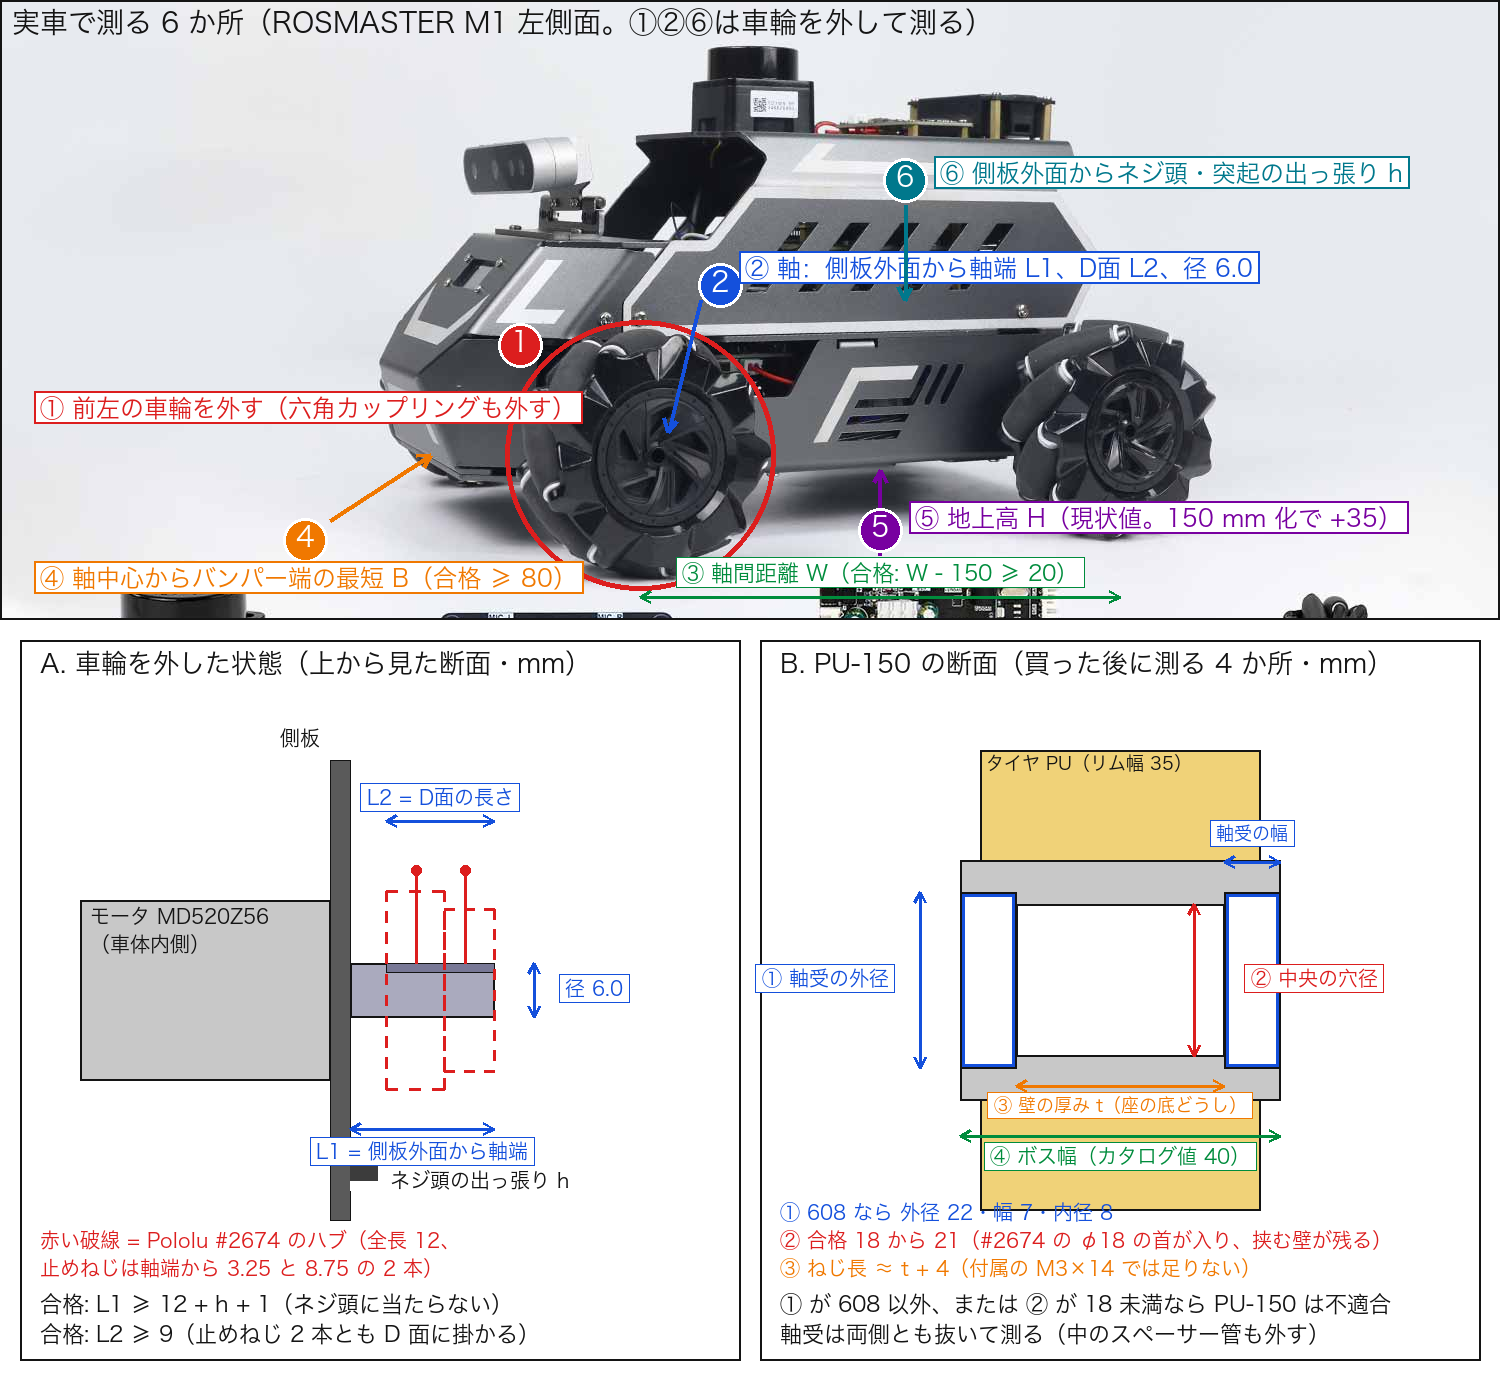
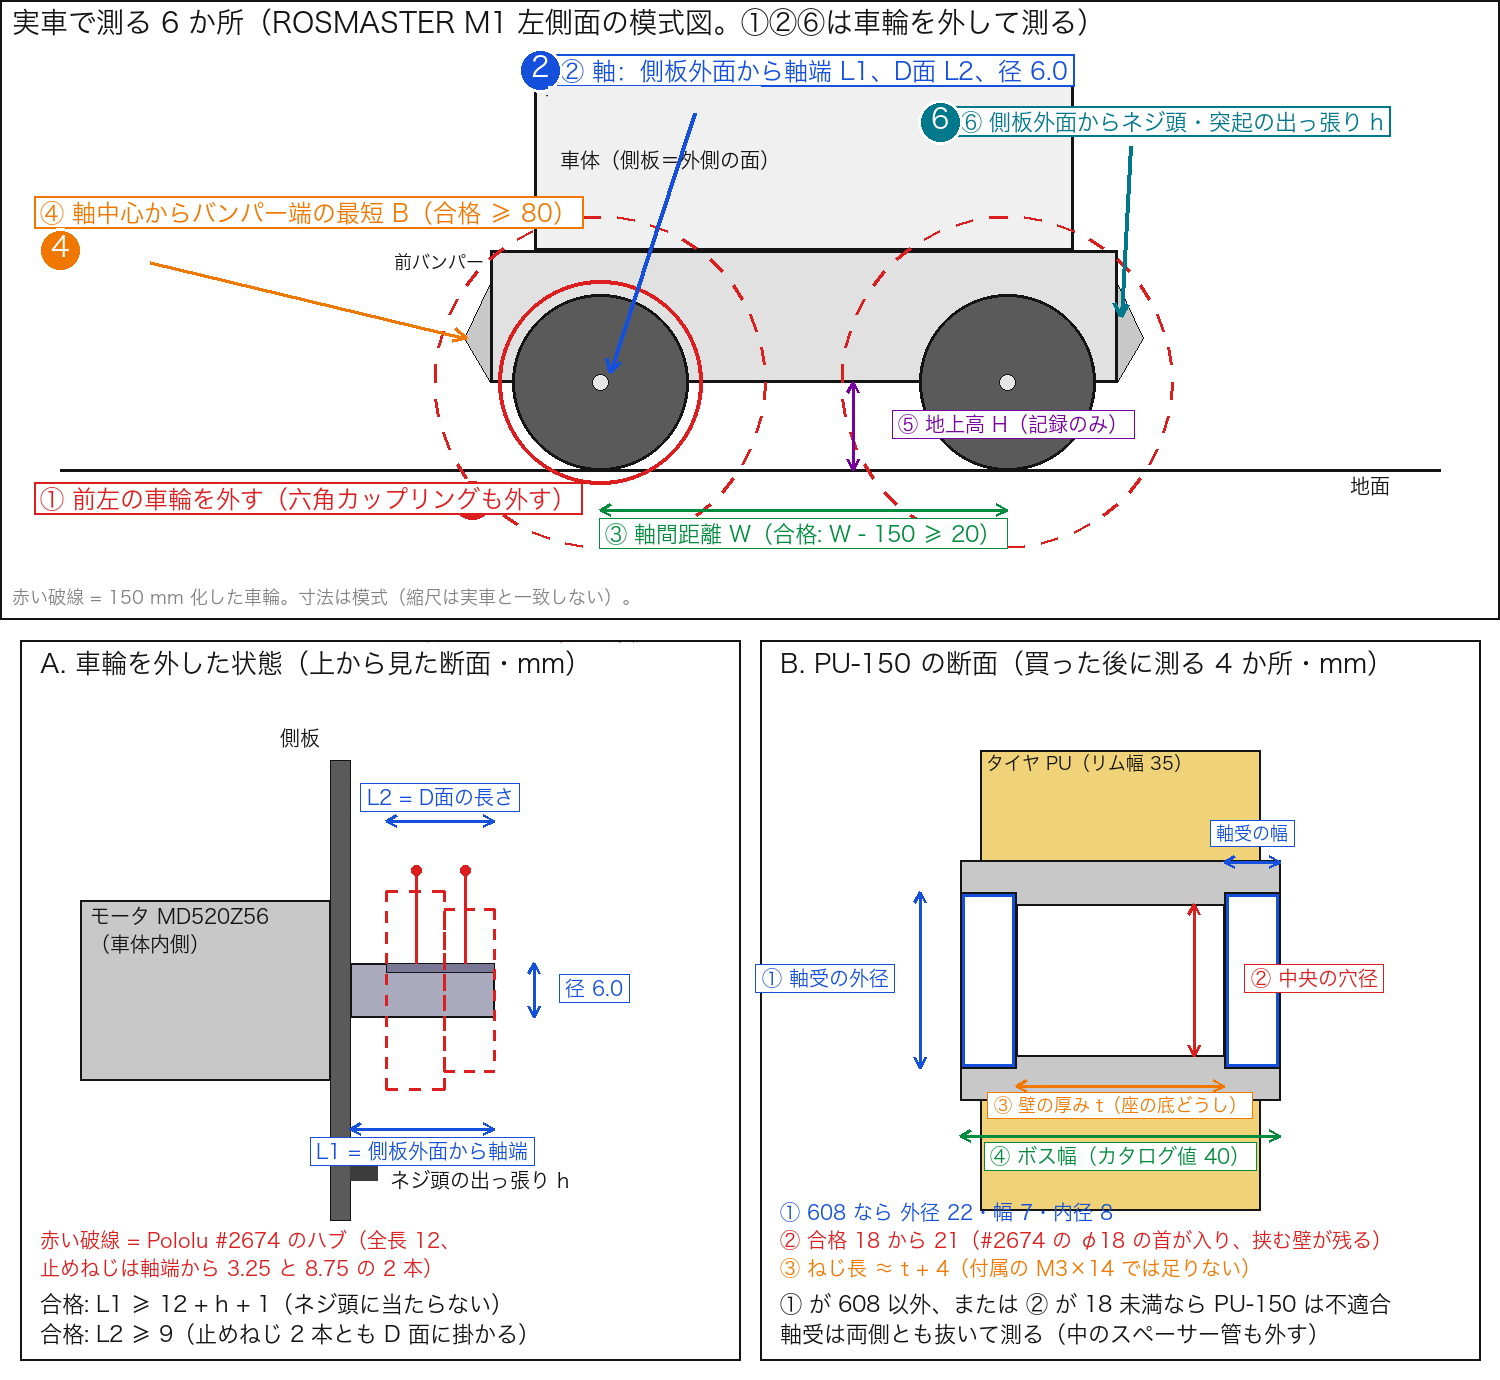
[docs] mode-outdoor: reconcile parallel-session sections in 06 (renumber my ④-7/④-8 → ④-9/④-10, retract #1077 and USPS-First-Class notes), replace vendor photo in the measurement guide with an original schematic (public repo)

Changed region(s): [[0.0, 0.0, 0.9507, 0.4674], [0.8893, 0.3428, 0.92, 0.4051], [0.8587, 0.4362, 0.92, 0.4674]]

diff --git a/docs/mode-outdoor/README.md b/docs/mode-outdoor/README.md
@@ -69,4 +69,4 @@
 - **2026-09-13**: 車輪径 150 mm をユーザー裁定（FW clamp を構造根拠に含める＝案 A'、退避先 144 mm）。[07 追補③](07-drivetrain-and-wheel-sizing.md)＝裁定・実装スライス 1（`m1_driver` wheel_scale / odom・branch `feat/m1-wheel-scale-odom`・PR pending・R-26 61 本・mutation 11/11）・G-W9 追加・`OQ-OD76/77`。[06 末尾追補](06-hardware-delta-and-base-selection.md)＝購入リスト（最小構成 ≈ ¥30,800・経路 A/B）。[mode-m1/02](../mode-m1/02-m1-driver-and-watchdog.md) 末尾追補②＝param 一覧。 **同日再調査で訂正**: 真の 150 mm 品は国内在庫あり（シシク PU-150 = 本命・[06 末尾 経路 A'](06-hardware-delta-and-base-selection.md)）。
 - **2026-09-14**: [06 末尾追補②](06-hardware-delta-and-base-selection.md)＝非常停止装置の実装案。原文再 Read（届出資料②「原則 2 か所」/ 型式認定基準 4.1 ウ(イ)「上部中央 1 か所」）→ **φ16 取付・ボタン径 φ29 の小型スイッチ（IDEC XA1E-BV311R）＋黄銘板 HAAV-27 を GNSS マスト上端に上向き 1 個**で法定要件（φ20 mm 以上・地上 60 cm 以上・赤/黄・自己保持）を満たす案。**メインスイッチは遮断点として同一（昇圧タップが上流）だが操作部として失格**（押しボタンでない・地上高・色・識別・自己保持）→ リレー a 接点をメインスイッチと直列に置く。`OQ-OD65〜67`。
 - **2026-09-14（②）**: 外部レビュー v3 を 4 レーン（Nav2 humble 上流／外部製品・法規／自 docs／自 code）で照合し [09](09-external-review-v3-response.md) を新設。**自 docs の誤り訂正**: 08（per-source timeout → Humble は node-level のみ・fail-open／gate は選択機能のみ／帯 0 撤回／近傍解像度 0.05 に統一／MRC・遷移の語／00_Platform_Contract 行）・[doc23:804](../architecture/23-perception-and-localization.md:804)（cuVSLAM blocker は Humble pin ではない＝Isaac ROS 3.2 は Humble 公式）・[doc12 末尾追補](../architecture/12-infrastructure-common.md)（Humble CM の fail-open）・02 §3（制御 / 映像 2 接続）・03 / 04 / 05 末尾追補・04 / flow / tree の 144 mm → 150 mm・**tree / flow HTML を v2.1 構造へ更新**（前提箱 00・手動用 CM・期限付き走行許可・運転 7 状態・横断 5 状態・制御 / 映像 / 記録 3 接続・X2 sensor_health・v2→v2.1 差分表・レビュー v3 照合表）。**触っていない（別セッション担当）**: [06:18](06-hardware-delta-and-base-selection.md:18) の「法定」ラベル（φ20 / 60 cm / 配置は警察庁通達別添の型式認定基準・リレーは実装案＝01 §3 の区別へ揃える要）・[07:21](07-drivetrain-and-wheel-sizing.md:21) §0 の「144 mm 級」推奨（Status 行の 150 mm 裁定と自己矛盾）→ 06 / 07 の担当セッションへ申し送り（[09 §6](09-external-review-v3-response.md)）。code 側の追跡: `collision_monitor.yaml:58/:90` のコメントは Jazzy 意味論（`OQ-OD96`・`track:safety-state`）。
-- **2026-09-14（後半）**: 車輪換装の実測と裁定。実車で軸径 ≈ 6・軸露出 ≈ 19・D 面 15 → Pololu #2674 が付くことを確定。**`OQ-OD76` = 案 2（150 mm 優先: シシク PU-150 ＋ #2674）で裁定**、確定購入リスト（Pololu は #2674 ×5 のみ・国内 MonotaRO 5 点・注文 2 は PU-150 の 4 点確認後）＝ [06 ④-8](06-hardware-delta-and-base-selection.md)。測定図 = [m1-wheel-swap-measure-guide.png](m1-wheel-swap-measure-guide.png)。Pololu 依存の最小化と DigiKey 固定送料 ¥4,428 の確認 = [06 ④-2〜④-5](06-hardware-delta-and-base-selection.md)。
+- **2026-09-14（後半）**: 車輪換装の実測と裁定。実車で軸径 ≈ 6・軸露出 ≈ 19・D 面 15 → Pololu #2674 が付くことを確定。**`OQ-OD76` = 案 2（150 mm 優先: シシク PU-150 ＋ #2674）で裁定**、確定購入リスト（Pololu は #2674 ×5 のみ・国内 MonotaRO 5 点・注文 2 は PU-150 の 4 点確認後）＝ [06 ④-10](06-hardware-delta-and-base-selection.md)。測定図 = [m1-wheel-swap-measure-guide.png](m1-wheel-swap-measure-guide.png)。Pololu 依存の最小化と DigiKey 固定送料 ¥4,428 の確認 = [06 ④-2〜④-5](06-hardware-delta-and-base-selection.md)。

diff --git a/docs/mode-outdoor/07-drivetrain-and-wheel-sizing.md b/docs/mode-outdoor/07-drivetrain-and-wheel-sizing.md
@@ -274,4 +274,4 @@ docs 内（file:line は執筆時に実 Read）:
 - `OQ-OD76` 車輪実体 (A') 国内 150 mm・608/8 mm 軸受品 ＋ #2674（推奨）/ (A) Pololu 144×29 / (B) 12 mm 穴台車車輪 ＋ スタブ軸 の選択。A' の残確認 = ハブ幅 40 mm に対する M3 長ねじ（#2674 付属は 14 mm）と、#2674 が 608 を置き換える構造ゆえ片持ちが残る点（外部軸受の要否は G-W1 の軸露出長で決める）。
 - `OQ-OD77` 事前相談で「FW clamp = 構造」が否認された場合の手順（k / 径 param の切替と届出値の再実測）。
 
-【2026-09-14 追記】`OQ-OD76` **裁定 = A'（シシク PU-150 ＋ Pololu #2674）**。実測（軸径 ≈ 6・側板外面→軸端 ≈ 19・D 面 15）で #2674 の取付は確定（[06 ④-7](06-hardware-delta-and-base-selection.md)）。車輪側の 4 点確認と確定購入リストは [06 ④-8](06-hardware-delta-and-base-selection.md)。退避 = Amazon 6 インチ 車いす前輪（608ZZ）→ #3281。
+【2026-09-14 追記】`OQ-OD76` **裁定 = A'（シシク PU-150 ＋ Pololu #2674）**。実測（軸径 ≈ 6・側板外面→軸端 ≈ 19・D 面 15）で #2674 の取付は確定（[06 ④-9](06-hardware-delta-and-base-selection.md)）。車輪側の 4 点確認と確定購入リストは [06 ④-10](06-hardware-delta-and-base-selection.md)。退避 = Amazon 6 インチ 車いす前輪（608ZZ）→ #3281。
